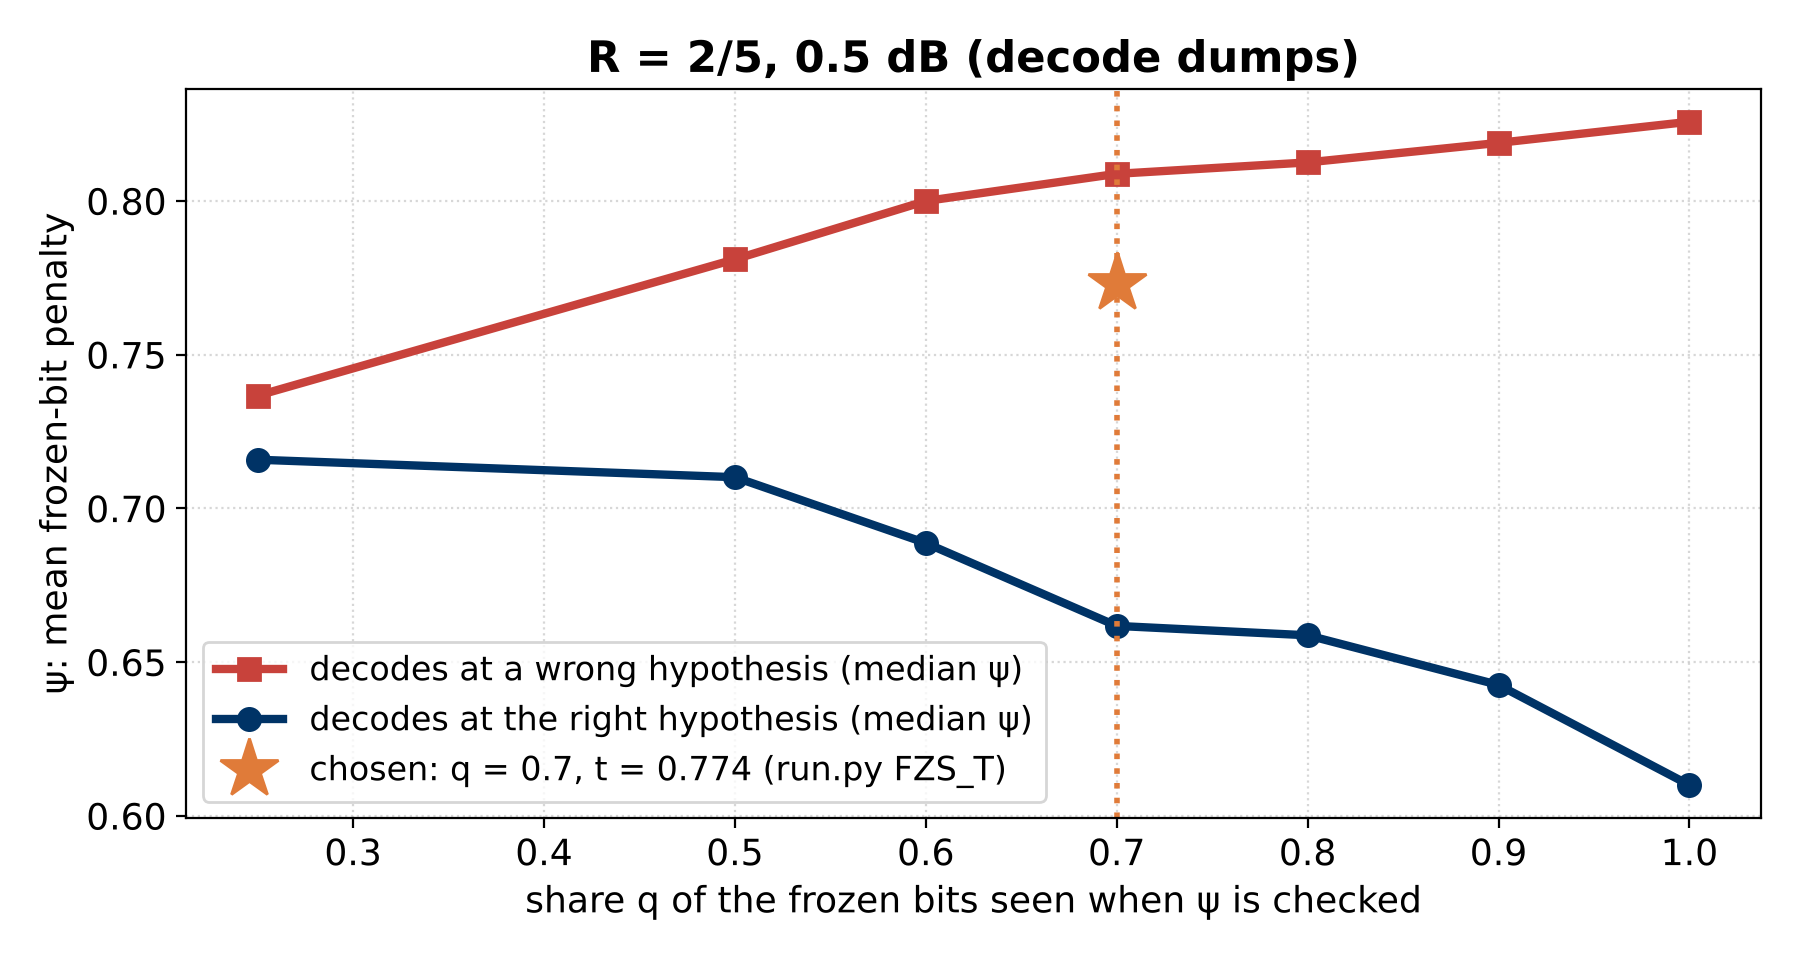
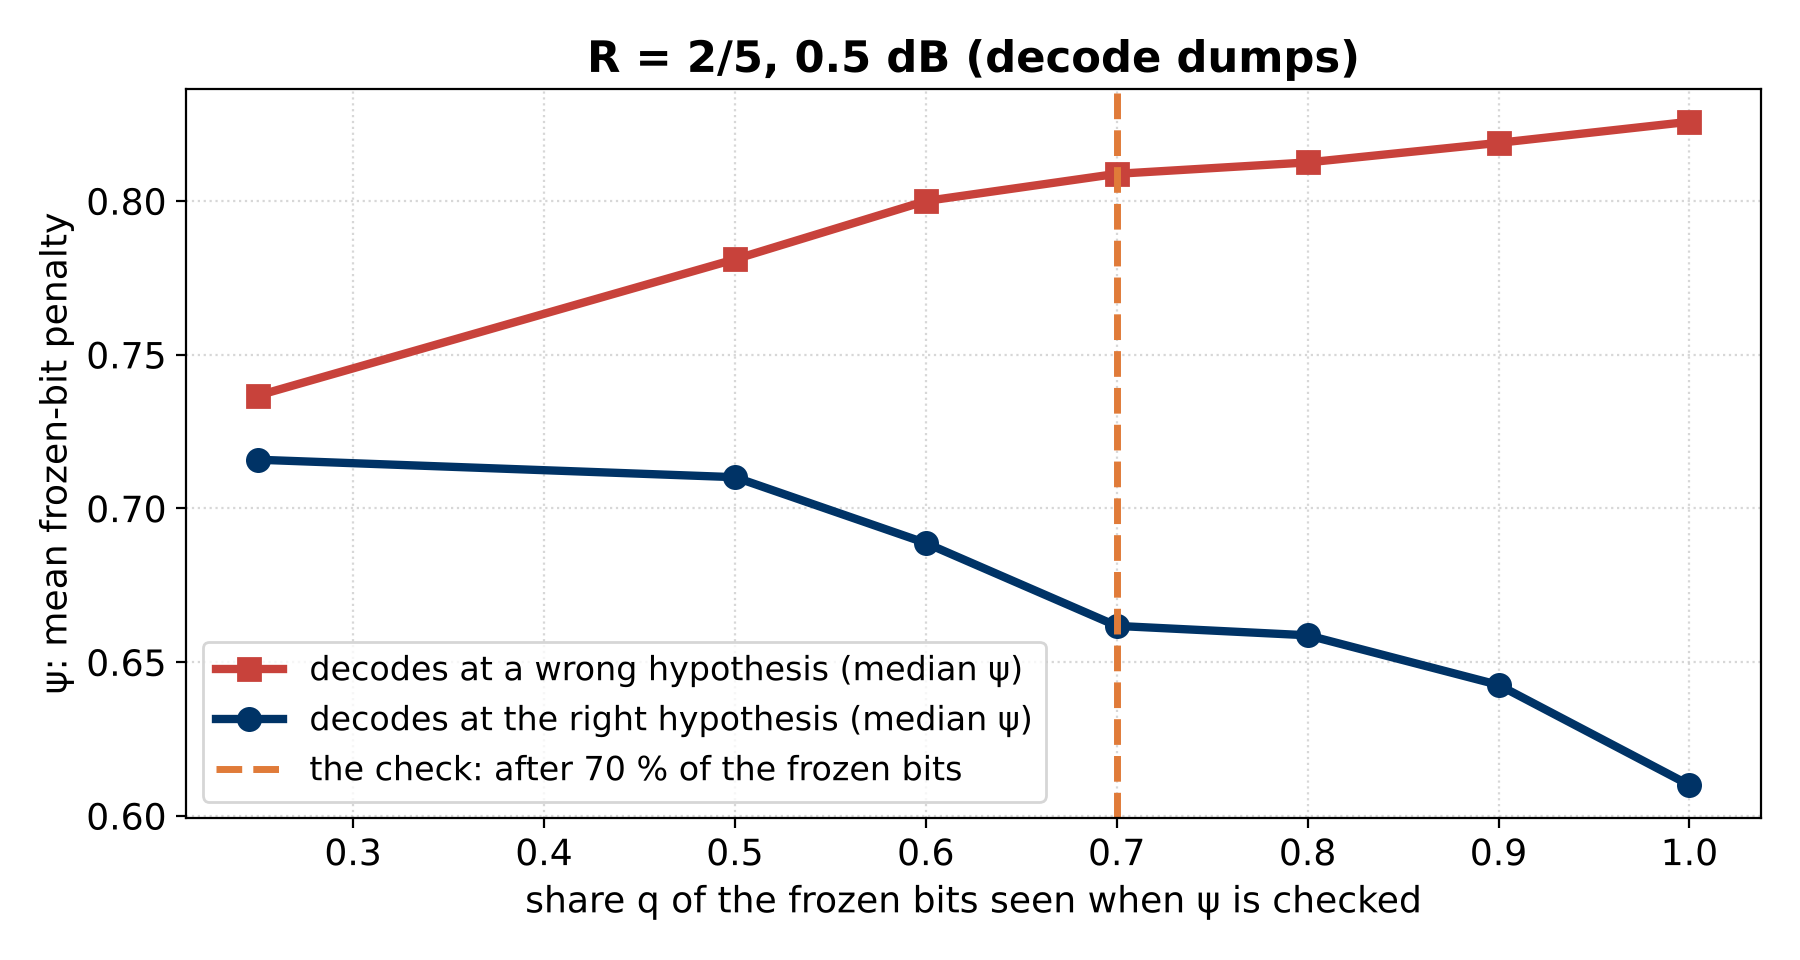
Slides: clearer F5 equations, threshold plot without the star
Claude-Session: https://claude.ai/code/session_01Uut9iw5SnA6a3eeYDv3vkc

Changed region(s): [[0.1244, 0.7812, 0.56, 0.8438], [0.5911, 0.2812, 0.6533, 0.3438]]

diff --git a/slides_eq/plot_testing_changes.py b/slides_eq/plot_testing_changes.py
@@ -53,9 +53,7 @@ def f5_thr():
     q = [c["q"] for c in ck]
     a.plot(q, [c["med_wrong"] for c in ck], "s-", color=RED, lw=3, ms=8, label="decodes at a wrong hypothesis (median ψ)")
     a.plot(q, [c["med_right"] for c in ck], "o-", color=NAVY, lw=3, ms=8, label="decodes at the right hypothesis (median ψ)")
-    c7 = [c for c in ck if abs(c["q"] - 0.7) < 1e-9][0]
-    a.plot([0.7], [c7["th"][0]["t"]], "*", color=ORANGE, ms=22, label="chosen: q = 0.7, t = 0.774 (run.py FZS_T)")
-    a.axvline(0.7, color=ORANGE, ls=":", lw=2)
+    a.axvline(0.7, color=ORANGE, ls="--", lw=2.5, label="the check: after 70 % of the frozen bits")
     a.set_xlabel("share q of the frozen bits seen when ψ is checked")
     a.set_ylabel("ψ: mean frozen-bit penalty")
     a.set_title("R = 2/5, 0.5 dB (decode dumps)", fontweight="bold")

diff --git a/slides_eq/render_eq.py b/slides_eq/render_eq.py
@@ -134,8 +134,8 @@ EQ.update({
     "vde1": r"$f_c=\arg\max_{f}\ \left|\sum_{n=0}^{26} z_n\,e^{-j2\pi fn}\right|^2$",
     "vde2": r"$\hat f=\arg\max_{|\nu-f_c|\,\leq\,1/54}\ X(\nu),\qquad X(\nu)=\left|\sum_{k=1}^{66} z_k\,e^{-j2\pi\nu n_k}\right|$",
     # F5 frozen-bit early stop
-    "f5a": r"$\psi_\ell=\dfrac{1}{n_F}\sum_{i\,\in\,\mathcal{F},\ i\ \mathrm{decided}}\Delta M_\ell(i)$",
-    "f5b": r"$\mathrm{stop\ the\ decode\ if}\ \ \min_{\ell\ \mathrm{alive}}\ \psi_\ell>t,\quad \mathrm{checked\ once\ at}\ n_F=\lceil qF\rceil$",
+    "f5a": r"$\psi_\ell=\dfrac{1}{n_F}\ \sum_{\mathrm{frozen}\ i\ \mathrm{decided}}\ \ln\!\left(1+e^{-\lambda_i^{(\ell)}}\right)$",
+    "f5b": r"$\mathrm{stop\ the\ decode\ if}\ \ \min_{\ell}\ \psi_\ell>t,\qquad\mathrm{checked\ once,\ at}\ n_F=0.7\,F$",
 })
 
 
